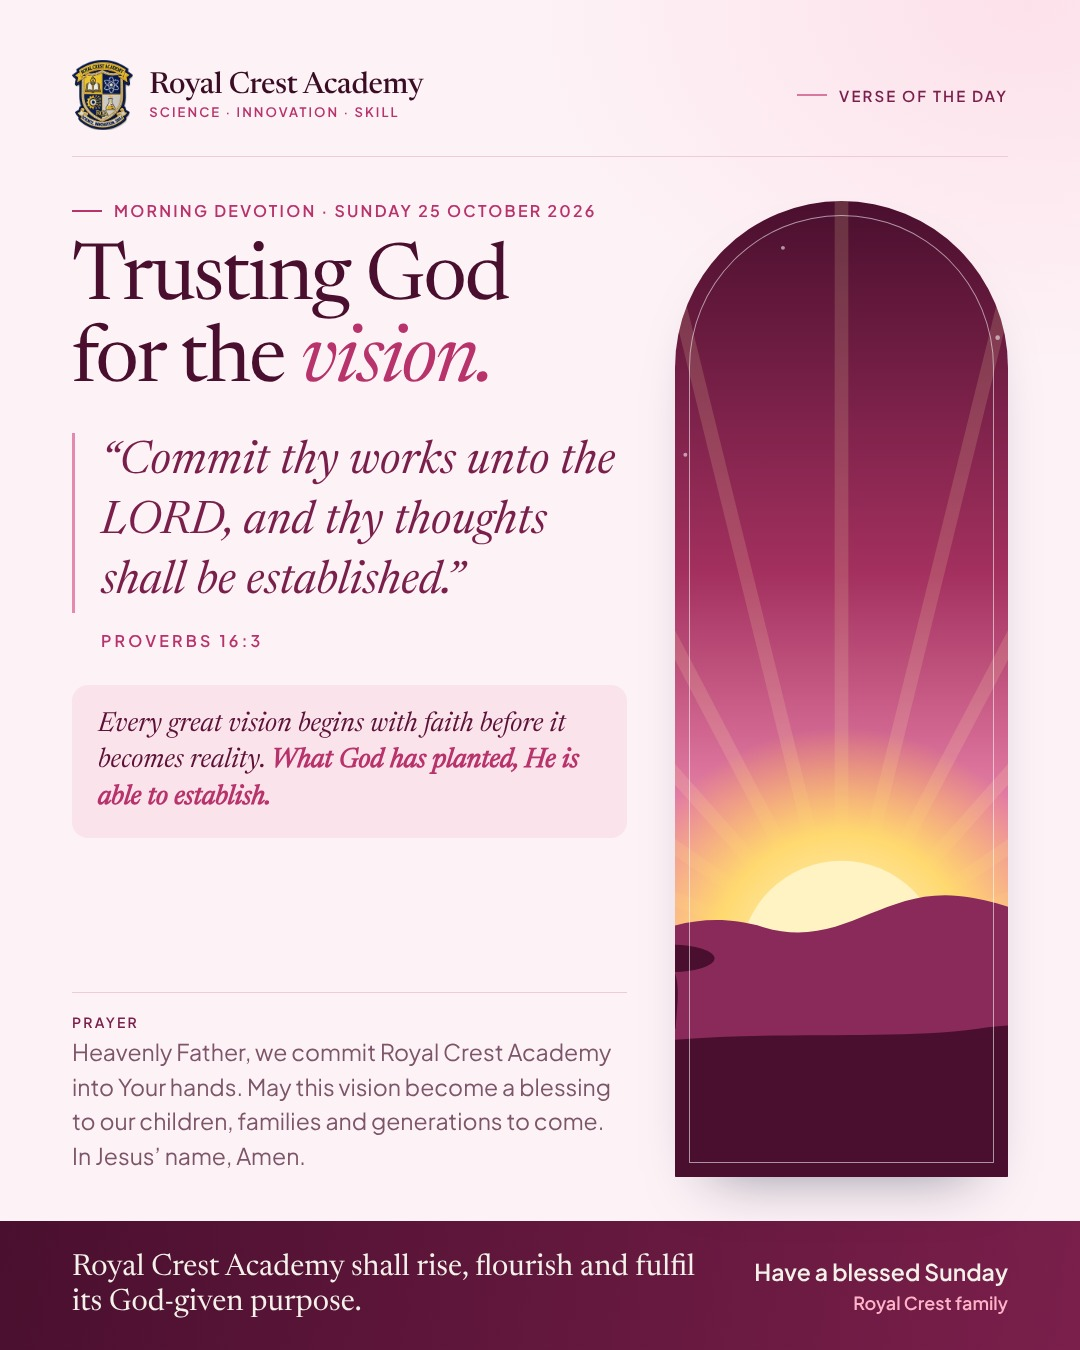
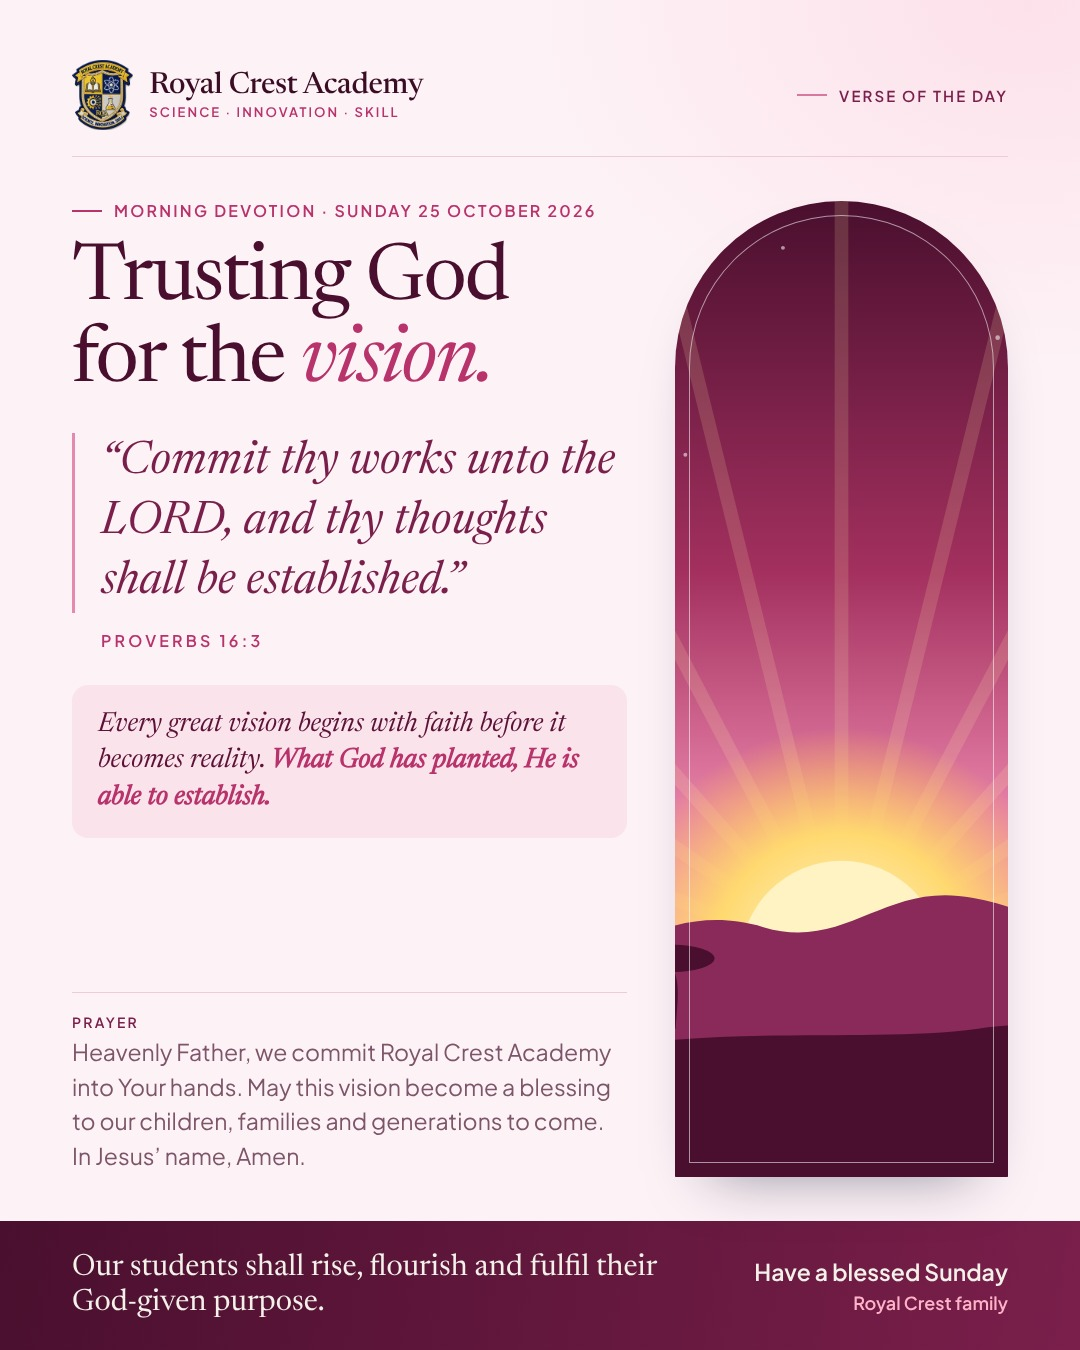
Pink verse post: declaration about the students
Claude-Session: https://claude.ai/code/session_01HHSSeuzikgdkEiDRBqXNst

Changed region(s): [[0.0611, 0.9333, 0.6417, 0.9956]]

diff --git a/studio/js/posts.js b/studio/js/posts.js
@@ -27,7 +27,7 @@
     'chalkboard': { label: "Chalkboard equation", caption: ["Today’s lesson: Science + Skill + Character = Royal Crest ✏", "", "ZIMSEC • Cambridge • HEXCO • robotics • boarding with four meals a day."] },
     'playlist': { label: "Playlist", caption: ["A week at Royal Crest, on repeat 🎧", "", "Morning devotion • Chemistry practical • Bonjour, Nǐ hǎo • Sparks fly in the workshop • Code the robot • Rugby • Sadza & stew"] },
     'verse-of-the-day': { label: "Verse of the day", formats: ['portrait', 'square'], caption: ["🌅 Verse of the day: Jeremiah 29:11", "", "“For I know the plans I have for you,” declares the Lord, “plans to prosper you and not to harm you, plans to give you hope and a future.”", "", "Heavenly Father, guide every Royal Crest family. Bless our children with wisdom, good character and a passion for learning. In Jesus’ name, Amen. 🙏", "", "Together, with God’s guidance, we are building a strong foundation for our children’s future."], plain: true },
-    'verse-pink': { label: "Verse of the day (pink)", formats: ['portrait', 'square'], caption: ["🌅 Morning devotion: Trusting God for the vision", "", "📖 “Commit thy works unto the LORD, and thy thoughts shall be established.” Proverbs 16:3", "", "Heavenly Father, we commit Royal Crest Academy into Your hands. Guide every decision, provide every resource and unite us in purpose. In Jesus’ name, Amen. 🙏", "", "Royal Crest Academy shall rise, flourish and fulfil its God-given purpose.", "", "Have a blessed Sunday, Royal Crest family!"], plain: true },
+    'verse-pink': { label: "Verse of the day (pink)", formats: ['portrait', 'square'], caption: ["🌅 Morning devotion: Trusting God for the vision", "", "📖 “Commit thy works unto the LORD, and thy thoughts shall be established.” Proverbs 16:3", "", "Heavenly Father, we commit Royal Crest Academy into Your hands. Guide every decision, provide every resource and unite us in purpose. In Jesus’ name, Amen. 🙏", "", "Our students shall rise, flourish and fulfil their God-given purpose.", "", "Have a blessed Sunday, Royal Crest family!"], plain: true },
     'zh-pictures': { label: "Mandarin: picture characters", formats: ['portrait', 'square'], caption: ["Chinese characters that are pictures 🖌", "", "人 rén person • 山 shān mountain • 日 rì sun • 木 mù tree", "The oldest characters were carved on bones and shells more than 3,000 years ago. Learn to read them with us at Mandarin Connect."] },
     'zh-count': { formats: ['portrait', 'square'], label: "Mandarin: count to ten", caption: ["Count to ten in Mandarin 🏮", "", "yī, èr, sān, sì, wǔ, liù, qī, bā, jiǔ, shí", "Fun fact: 八 (bā) is a lucky number in China because it sounds like the word for wealth."] },
     'zh-great-wall': { formats: ['portrait', 'square'], label: "Mandarin: the Great Wall", caption: ["长城 Chángchéng: the Great Wall 🏯", "", "More than 21,000 km of history. At Mandarin Connect our learners explore the language and the culture behind it."] },
@@ -369,7 +369,7 @@
     <div class="vd-note">Every great vision begins with faith before it becomes reality. <b>What God has planted, He is able to establish.</b></div>
     <div class="vd-prayer"><b>Prayer</b>Heavenly Father, we commit Royal Crest Academy into Your hands. May this vision become a blessing to our children, families and generations to come. In Jesus’ name, Amen.</div></div>
     <div class="fl-photo vd-arch">${sunrise('pink')}</div></div>
-  <div class="fl-foot"><div class="fl-cta">Royal Crest Academy shall rise, flourish and fulfil its God-given purpose.</div><div class="fl-contact">Have a blessed Sunday<div class="c-web">Royal Crest family</div></div></div></div>`,
+  <div class="fl-foot"><div class="fl-cta">Our students shall rise, flourish and fulfil their God-given purpose.</div><div class="fl-contact">Have a blessed Sunday<div class="c-web">Royal Crest family</div></div></div></div>`,
     'zh-pictures': (crest, phone, P, full) => `<div class="paper"></div>
   <div class="abs kick" style="left:70px;top:70px;color:var(--red)">Mandarin Connect · characters</div>
   <div class="abs h">Characters that<br>are <em>pictures.</em></div>
